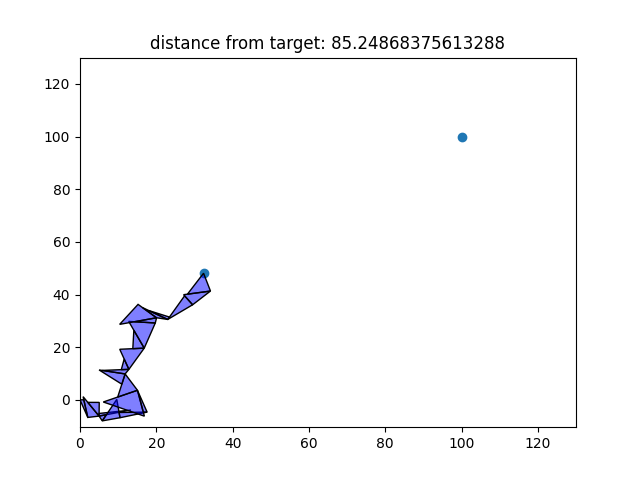
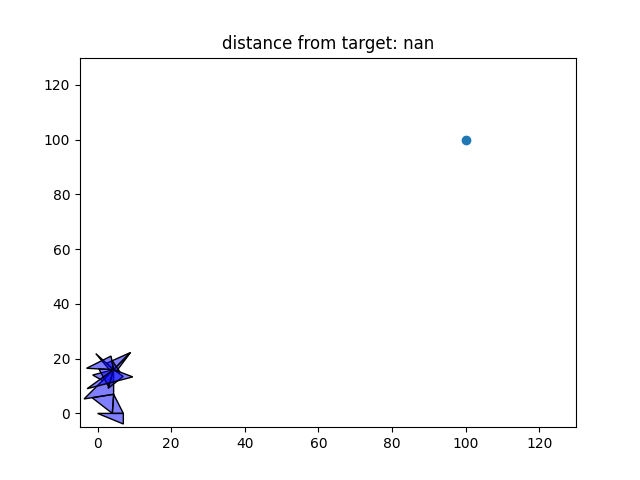
added an option to avoid tests crashing while running evoultion

diff --git a/EvolutionRunner.py b/EvolutionRunner.py
@@ -209,11 +209,18 @@ def single_model_runner(generation_num, population_size, selection_type
                                      title=f"distance from target: {distance_from_target}")
 
         # run evolution
-        elita = apply_elitism_func(bridges.copy(), N_e)
-        rest = apply_selection(bridges.copy(), selection_type, N_e, s)
+        bridges_before_this_generation = deepcopy(bridges)
+        try :
+            elita = apply_elitism_func(bridges.copy(), N_e)
+            rest = apply_selection(bridges.copy(), selection_type, N_e, s)
 
-        rest_after_mutations = list(create_mutations(rest.copy(), mutation_p))
-        bridges = rest_after_mutations + list(elita).copy()
+            rest_after_mutations = list(create_mutations(rest.copy(), mutation_p))
+            bridges = rest_after_mutations + list(elita).copy()
+
+        except Exception as e:
+            print(f"Exception occurred during generation {idx}."
+                  f" Skipping this generation. Error info : {e}")
+            bridges = bridges_before_this_generation
 
     txt = [r'$\mathbf{MODEL\:PARAMETERS}$', "\n"
            r"$\mathit{Population\:size} :$" + str(population_size),
@@ -273,11 +280,13 @@ def generate_path(generation_num, population_size, selection_type,
     dir_name_str = '__'.join(dir_name)
     parent_dir_name = path.join(PLOT_OUTPUT_DIR, dir_name_str)
     if var_name is None:
-        os.makedirs(parent_dir_name)
+        if not path.exists(parent_dir_name):
+            os.makedirs(parent_dir_name)
     else:
         for var in var_range:
             inner_dir = path.join(parent_dir_name, str(var))
-            os.makedirs(inner_dir)
+            if not path.exists(inner_dir):
+                os.makedirs(inner_dir)
 
     return parent_dir_name
 
@@ -446,7 +455,7 @@ def quest_3():
 
 def quest_4():
     # Question 4
-    mutation_rates = [0.1, 0.05, 0.025]
+    mutation_rates = [0.05, 0.025]
     plot_results_manager(generation_num=100,
                          population_size=300,
                          selection_type=ROULETTE_WHEEL,
